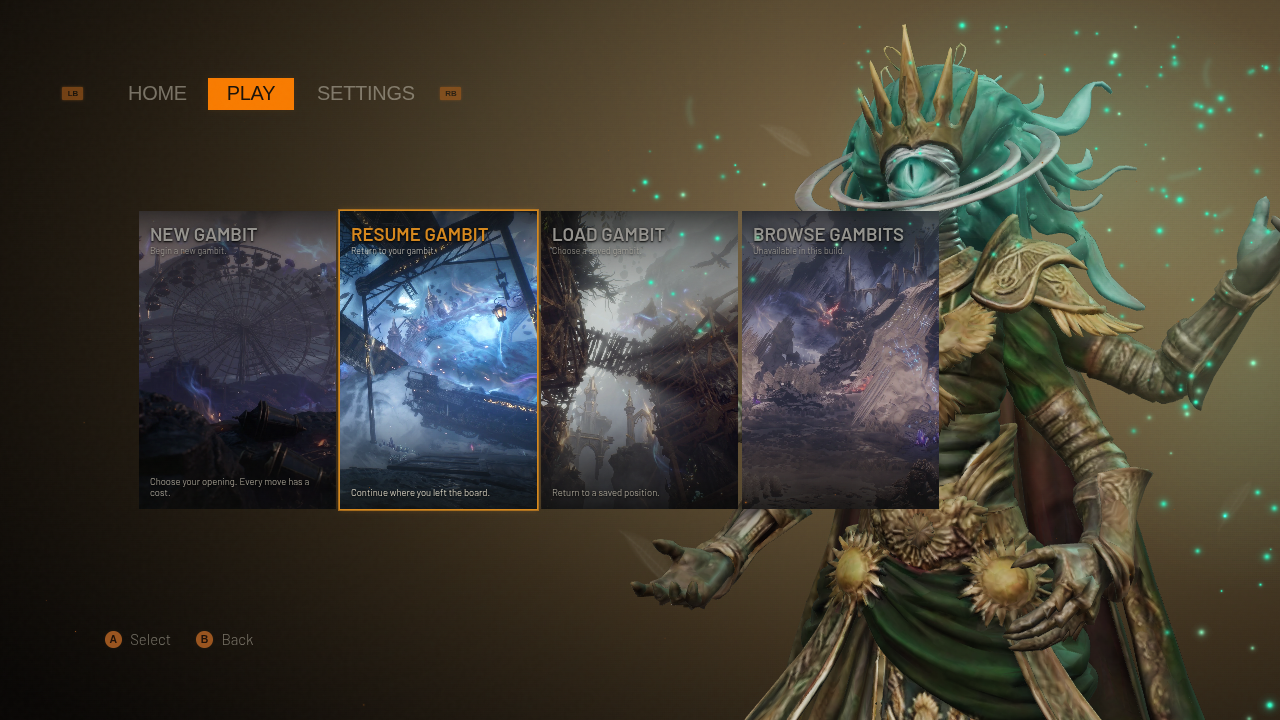
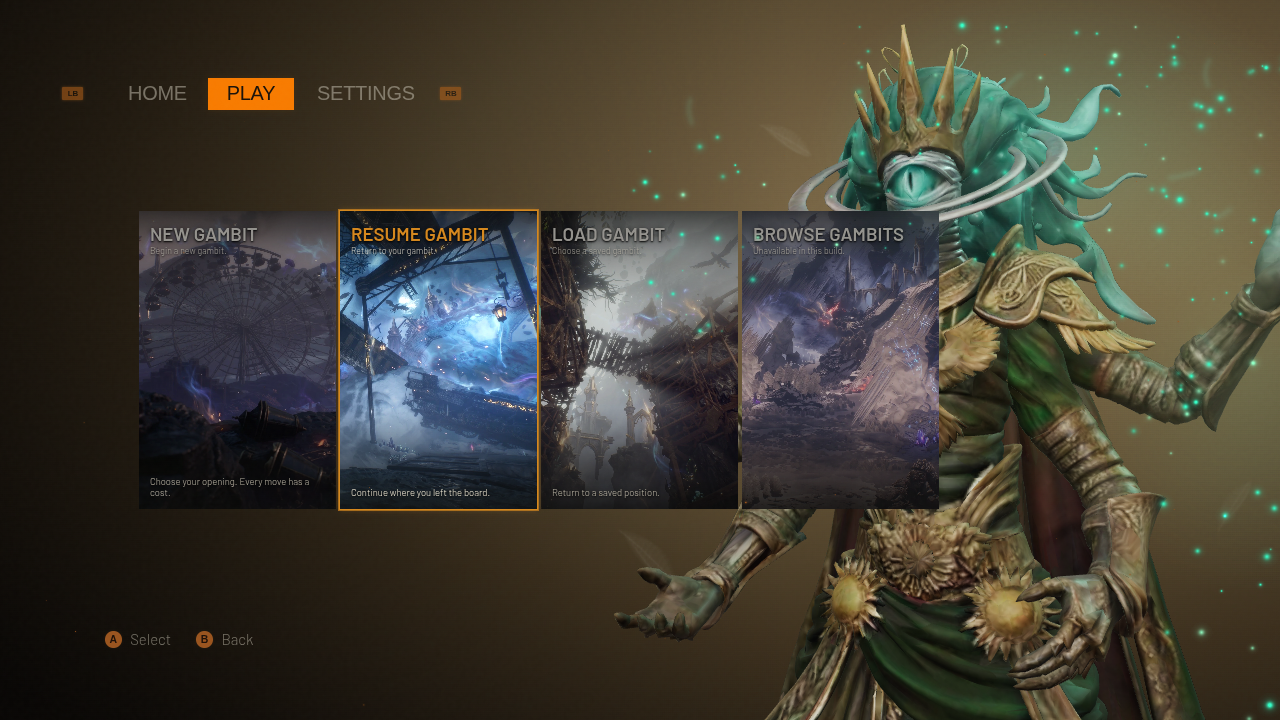
style(scene): enlarge sorcerer five percent

Changed region(s): [[0.4688, 0.0611, 1.0, 1.0]]

diff --git a/main game/src/CreatureStage.tsx b/main game/src/CreatureStage.tsx
@@ -178,11 +178,11 @@ export default function CreatureStage({
           model = null;
           return;
         }
-        const scale = 5.408 / size.y;
+        const scale = 5.6784 / size.y;
         model.scale.multiplyScalar(scale);
         model.position.sub(center.multiplyScalar(scale));
         // Compensate for the larger rig so the crown keeps its breathing room.
-        model.position.y -= 0.82;
+        model.position.y -= 0.96;
         pivot.add(model);
         if (gltf.animations.length) {
           mixer = new THREE.AnimationMixer(model);

diff --git a/main game/README.md b/main game/README.md
@@ -28,7 +28,7 @@ All four cards (New Gambit / Resume Gambit / Load Gambit / Browse Gambits) are v
 
 ## Creature asset
 
-The default creature is the actual user-supplied **`Crownfall_Sorcerer_Digits_v3_1(1).glb`**, delivered as `public/models/crownfall-sorcerer.glb`. Its PBR material retains the supplied aged-gold and emerald textures. The menu selects the named **Idle** clip; Attack and Threat_Cast are retained in the file but do not play in the menu. The creature renders behind the cards with warm directional lighting and a teal rim. Its final presentation is 4% larger, turned another 7.45° toward the cards and leaned 2.58° left. The whole rig, including all four arms, follows this parent transform; the bone animation is unchanged. A small downward adjustment keeps the crown inside the frame. Matched before/after Idle captures are in `artifacts/creature-direction/`.
+The default creature is the actual user-supplied **`Crownfall_Sorcerer_Digits_v3_1(1).glb`**, delivered as `public/models/crownfall-sorcerer.glb`. Its PBR material retains the supplied aged-gold and emerald textures. The menu selects the named **Idle** clip; Attack and Threat_Cast are retained in the file but do not play in the menu. The creature renders behind the cards with warm directional lighting and a teal rim. Its final presentation is another 5% larger than the approved tilted pose (9.2% above the original size), with the same 7.45° turn toward the cards and 2.58° left lean. The whole rig, including all four arms, follows this parent transform; the bone animation is unchanged. A small downward adjustment keeps the crown inside the frame. Matched direction captures are in `artifacts/creature-direction/`; the latest size comparison and exact scale/anchor values are in `artifacts/creature-size/`.
 
 The supplied 19,382,272-byte file was optimized to 4,217,336 bytes using 2048px WebP textures and Draco geometry compression. All 80,910 triangles, 142 joints and three clips are preserved; no simplification or animation resampling was applied. The original upload is not overwritten. Required Draco decoders are self hosted in `public/decoders/draco/`, so this model needs no external decoder service.
 
